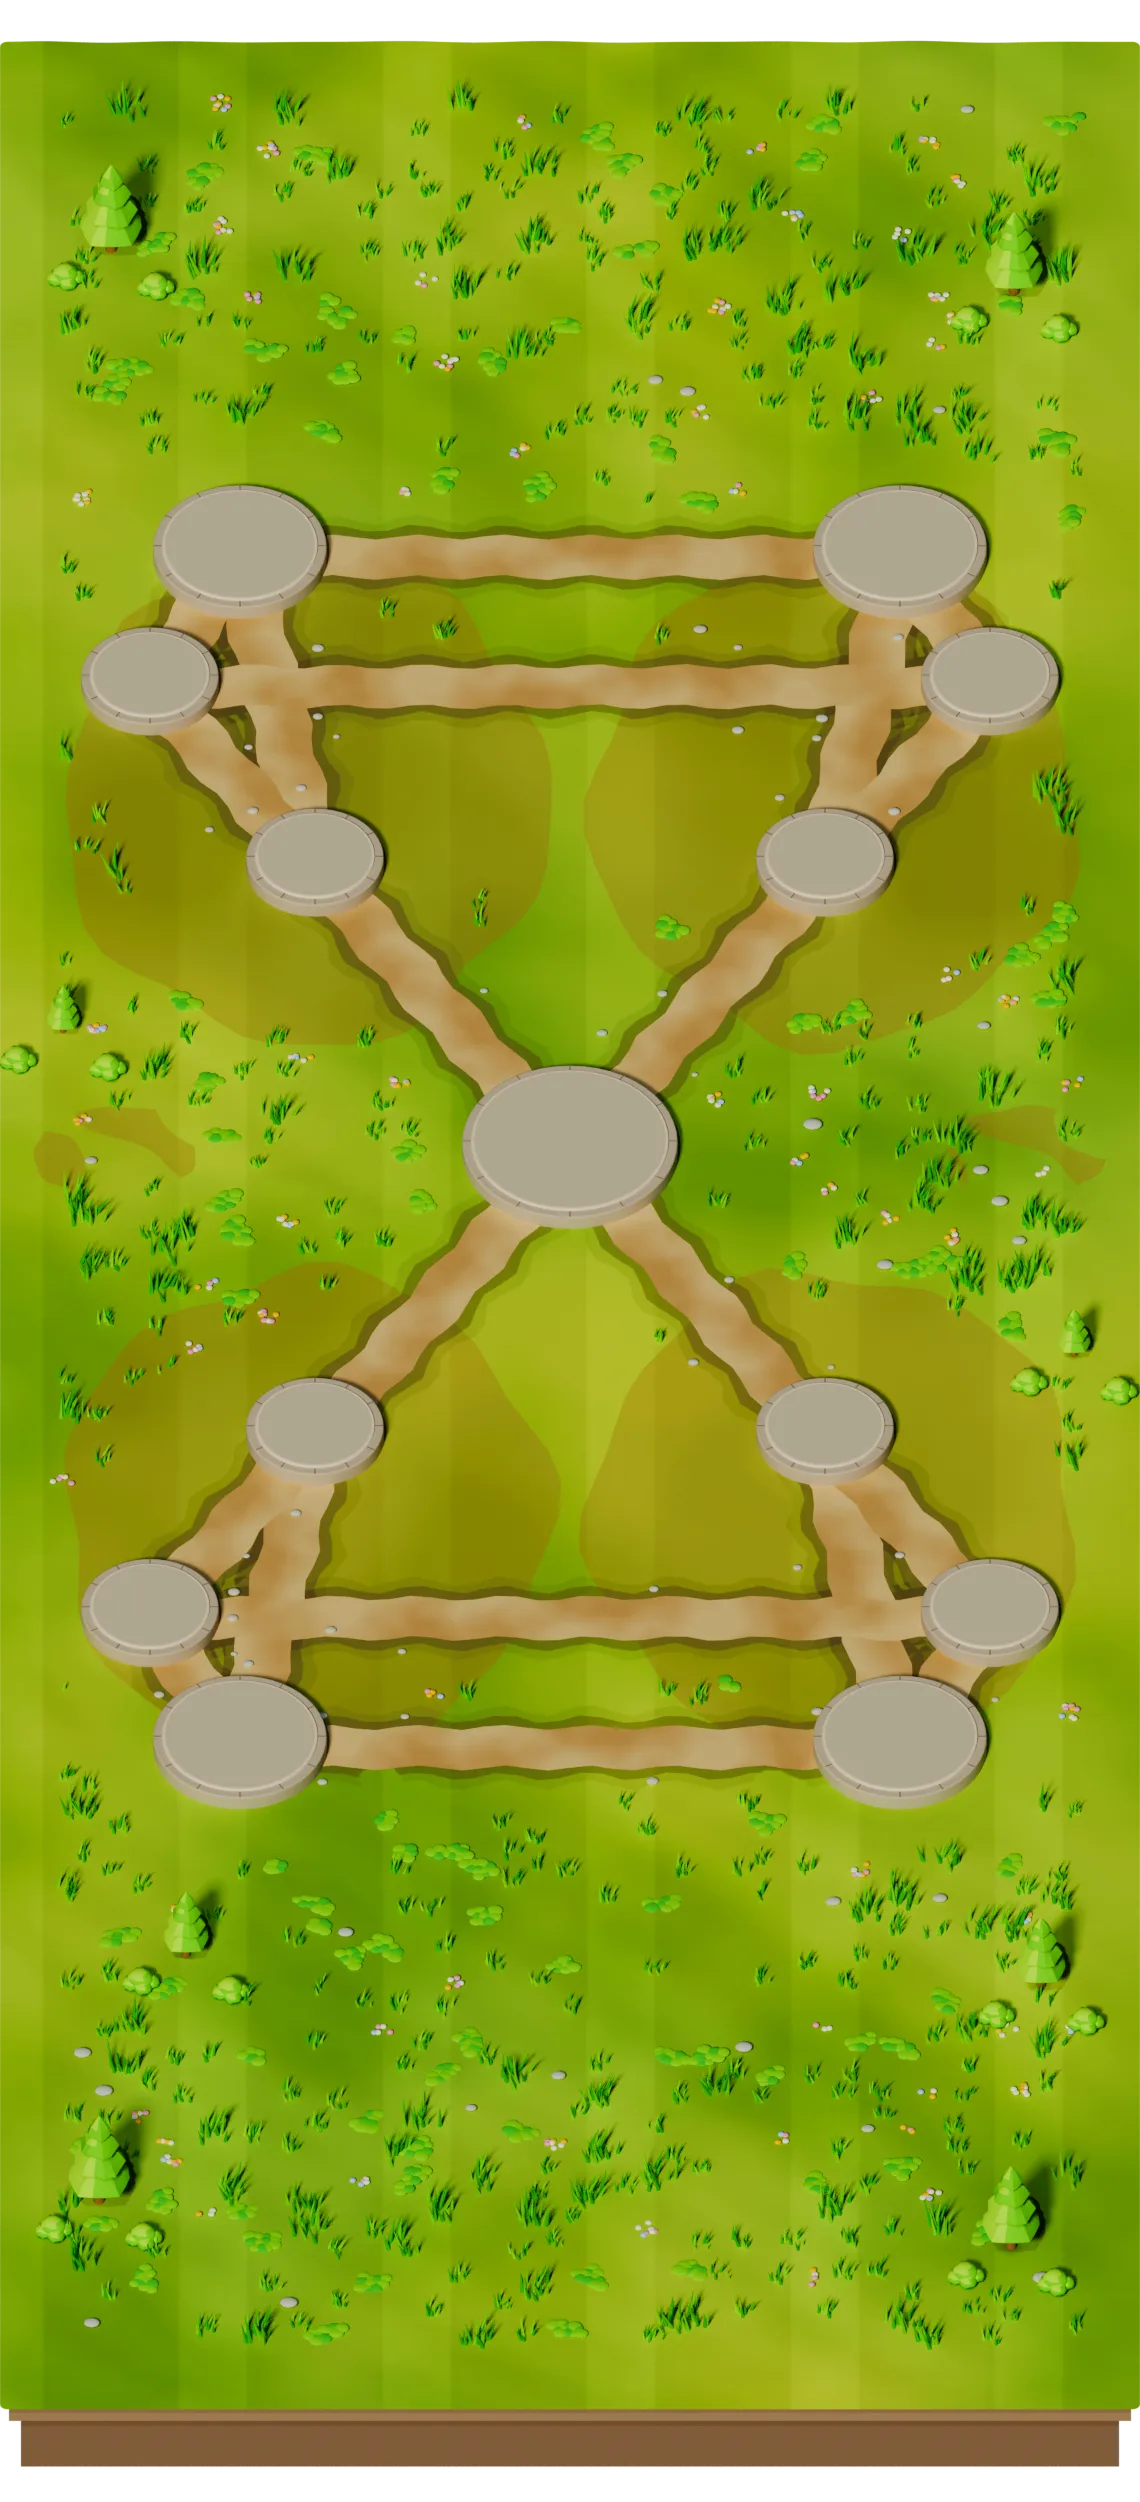
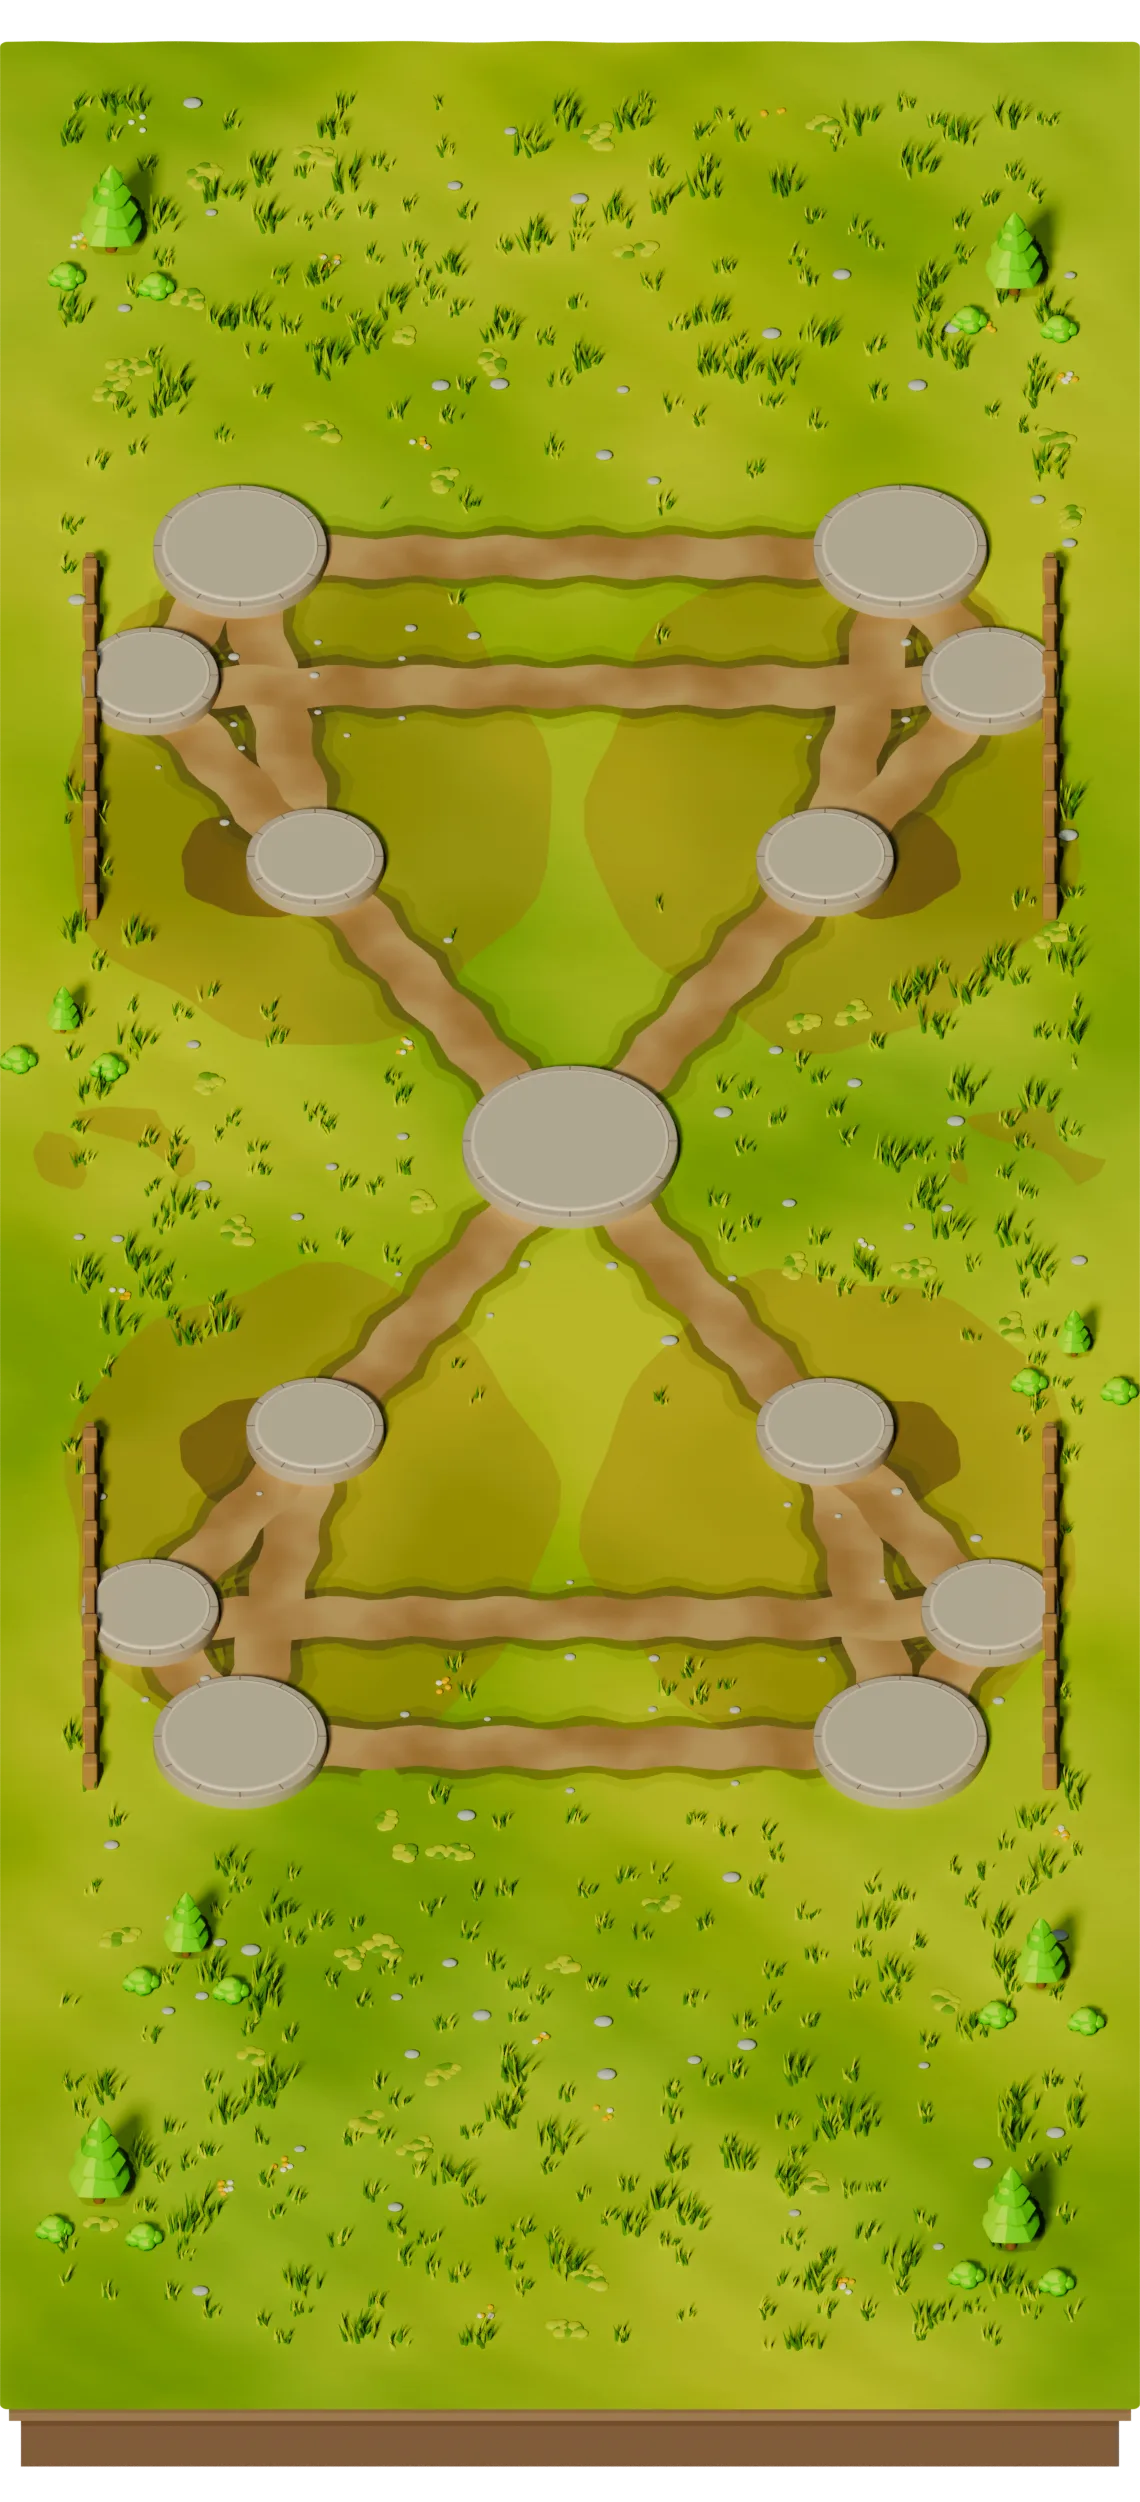
Give each battlefield its own baked biome (twin_passes highland, royal_ring palace garden, quad_citadel war camp)
Ground plates only: per-map grass/road/blade/flower palettes, scatter counts and
dressing in GROUND_BIOMES. Lighting rig, geometry, texture sizes and prop counts are
unchanged, so runtime cost is zero. SD plates re-encoded at q86 (quad q88) under the
128 KiB budget; cache keys bumped to cartoon-meadow-v1.9 / hd-v5.

diff --git a/apps/game/src/scenes/__tests__/GameSceneViewportRelayout.test.ts b/apps/game/src/scenes/__tests__/GameSceneViewportRelayout.test.ts
@@ -583,7 +583,7 @@ describe('GameScene viewport relayout (map uses the live mobile height)', () => 
       const units = image.mock.calls.filter(([, path]) => path.includes('assets/units/'));
       expect(units, 'all leaders, followers and facings need a fresh revision').toHaveLength(16);
       for (const [, path] of units) {
-        expect(new URL(path, 'https://game.invalid/').searchParams.get('v')).toBe('cartoon-meadow-v1.8');
+        expect(new URL(path, 'https://game.invalid/').searchParams.get('v')).toBe('cartoon-meadow-v1.9');
       }
       for (const [key, path] of expectedAssets) {
         const calls = image.mock.calls.filter(([loadedKey]) => loadedKey === key);
@@ -591,7 +591,7 @@ describe('GameScene viewport relayout (map uses the live mobile height)', () => 
         const url = new URL(calls[0][1], 'https://game.invalid/');
         expect(url.pathname).toBe(`/${path}`);
         expect(url.searchParams.get('v'), `${key} must bypass the old immutable cache`)
-          .toBe('cartoon-meadow-v1.8');
+          .toBe('cartoon-meadow-v1.9');
       }
     },
   );

diff --git a/apps/game/src/scenes/GameScene.ts b/apps/game/src/scenes/GameScene.ts
@@ -546,7 +546,7 @@ export class GameScene extends Phaser.Scene {
     const mapArtPath = (path: string): string =>
       hasHdArt(path) && assetTier === 'hd'
         ? `${resolveArtPath(path, assetTier)}?v=${HD_ART_VERSION}`
-        : `${path}?v=cartoon-meadow-v1.8`;
+        : `${path}?v=cartoon-meadow-v1.9`;
     // Track texture files that fail to load so the scene can substitute
     // procedural fallbacks instead of rendering broken sprites (the game must
     // never depend on the Blender source pipeline being present).

diff --git a/apps/game/src/scenes/MenuScene.ts b/apps/game/src/scenes/MenuScene.ts
@@ -208,7 +208,7 @@ export class MenuScene extends Phaser.Scene {
       this,
       [
         { key: 'hub_kingdom_citadel', path: 'assets/hub/kingdom_citadel.webp?v=hub-384-v1' },
-        { key: 'unit_leader_player_front', path: 'assets/units/unit_leader_player_front.png?v=cartoon-meadow-v1.8' },
+        { key: 'unit_leader_player_front', path: 'assets/units/unit_leader_player_front.png?v=cartoon-meadow-v1.9' },
       ],
       () => {
         crest.setVisible(false);

diff --git a/art/blender/crown_cross_kit.py b/art/blender/crown_cross_kit.py
@@ -1261,8 +1261,11 @@ def _ground_identity(battlefield_id, make_material, terrain_z):
                                 .022, roughness=.3, detail=2.0)
         _river_ribbon('organic brook bank', 49.0, .012, bank)
         _river_ribbon('brook shallows', 43.0, .025, shallows)
+        # A pale foam rim where the water meets the bank (baked: no runtime cost).
+        foam = _flat_alpha('rgx_foam', make_material, (.84, .96, .92), .55)
+        _river_ribbon('brook foam rim', 40.5, .033, foam)
         _river_ribbon('brook water', 37.0, .04, water)
-        stone = make_material('rgx_bridge', (.73, .65, .43), .8, use_gradient=False)
+        stone =make_material('rgx_bridge', (.73, .65, .43), .8, use_gradient=False)
         # Ground-level decking keeps marching sprites registered to the
         # canonical route; small stone parapets supply the diorama volume.
         for i in range(9):
@@ -1300,6 +1303,18 @@ def _ground_identity(battlefield_id, make_material, terrain_z):
             _organic_patch('trampled camp clearing', x, y, 81, 94, .018, camp, i + 16)
         for i, (x, y) in enumerate(((-152, 38), (152, 38))):
             _organic_patch('camp verge', x, y, 27, 18, .014, camp, i + 44)
+        # Churned earth inside each camp and a timber stake fence on the outer
+        # verge: the war-camp reads as lived-in, not as a second meadow.
+        churn = _flat_alpha('rgx_churn', make_material, (.30, .17, .06), .42)
+        for i, (x, y) in enumerate(((-104, 150), (104, 150), (-104, -78), (104, -78))):
+            _organic_patch('camp churned earth', x, y, 26, 21, .02, churn, i + 60)
+        timber = make_material('rgx_fence', (.46, .29, .12), .85, use_gradient=False)
+        for side in (-1, 1):
+            for run in ((130, 262), (-206, -74)):
+                lo, hi = run
+                for j in range(int((hi - lo) / 18) + 1):
+                    box('camp fence stake', (5.0, 5.0, 12.0), (side * 160.0, lo + j * 18.0, 6.0), timber, .8)
+                box('camp fence rail', (3.2, hi - lo, 3.0), (side * 160.0, (lo + hi) / 2.0, 8.5), timber, .5)
 
 
 def _ground_scatter(battlefield_id, bf, mats, terrain_z, roads):
@@ -1365,6 +1380,8 @@ def _ground_scatter(battlefield_id, bf, mats, terrain_z, roads):
             return x, y
         return None
 
+    biome = GROUND_BIOMES[battlefield_id]
+    flower_mix = biome.get('flowers', _DEFAULT_FLOWER_MIX)
     placed = []
 
     def reserve(x, y):
@@ -1400,7 +1417,13 @@ def _ground_scatter(battlefield_id, bf, mats, terrain_z, roads):
                 continue
             pick = rng.random()
             if GROUND_V2:
-                flower_mat = mats['flower_light'] if pick < .4 else mats['flower_dark'] if pick < .65 else mats['flower_pink'] if pick < .85 else mats['flower_blue']
+                flower_mat = mats[flower_mix[-1][0]]
+                cumulative = 0.0
+                for key, weight in flower_mix:
+                    cumulative += weight
+                    if pick < cumulative:
+                        flower_mat = mats[key]
+                        break
             else:
                 flower_mat = mats['flower_light'] if pick < .55 else mats['flower_dark']
             ico('meadow flower', 1.15 if GROUND_V2 else .9, (fx, fy, terrain_z(fx, fy) + .8),
@@ -1430,6 +1453,7 @@ def _ground_scatter(battlefield_id, bf, mats, terrain_z, roads):
     # concentrated in the fringe. All detail is baked into the one plate.
     counts = (('clover', 90), ('tuft', 290), ('patch', 100), ('flower', 64), ('pebble', 24)) if GROUND_V2 else (('clover', 64), ('tuft', 190), ('patch', 70), ('flower', 18), ('pebble', 16))
     for kind, count in counts:
+        count = biome.get('counts', {}).get(kind, count)
         made = misses = 0
         while made < count and misses < 500:
             misses += 1
@@ -1508,9 +1532,49 @@ def _ground_bottom_fade(field, make_material):
 # an identity without changing the authoritative palette/fallback data.
 GROUND_GRASS_PALETTES = {
     'crown_cross': ((.19, .48, .025), (.37, .72, .045)),
-    'twin_passes': ((.045, .38, .13), (.13, .62, .21)),
-    'royal_ring': ((.055, .43, .035), (.20, .69, .055)),
-    'quad_citadel': ((.26, .42, .035), (.48, .65, .075)),
+    'twin_passes': ((.05, .38, .17), (.14, .61, .30)),
+    'royal_ring': ((.09, .50, .03), (.30, .78, .06)),
+    'quad_citadel': ((.32, .44, .04), (.58, .66, .08)),
+}
+
+# Per-map biome dressing, baked into the ground plate only: the lighting rig,
+# road/socket geometry and runtime prop counts stay shared. Every key is
+# optional; crown_cross is the reference biome and keeps the shared defaults.
+#   grass:  noise_material overrides (stripes, stripe_width, sun_patches, grain)
+#   road:   (low, high) road noise colours
+#   blades: colours for the baked leaf/clover materials
+#   flowers: weighted flower materials (weights sum to 1)
+#   counts: scatter counts per kind (clover/tuft/patch/flower/pebble)
+_DEFAULT_FLOWER_MIX = (('flower_light', .4), ('flower_dark', .25), ('flower_pink', .2), ('flower_blue', .15))
+GROUND_BIOMES = {
+    'crown_cross': {},
+    # Highland brook: cool mossy greens, pale blue/white blooms, grey stone paths.
+    'twin_passes': {
+        'grass': {'sun_patches': .4, 'stripes': .0},
+        'road': ((.50, .40, .27), (.70, .60, .42)),
+        'blades': {'leaf': (.14, .56, .12), 'leaf_dark': (.03, .33, .11),
+                   'leaf_tall': (.09, .48, .15), 'clover': (.04, .44, .14)},
+        'flowers': (('flower_blue', .40), ('flower_light', .40), ('flower_pink', .10), ('flower_dark', .10)),
+        'counts': {'pebble': 56},
+    },
+    # Palace garden: clipped bright lawn, tight mower stripes, rose beds, pale gravel.
+    'royal_ring': {
+        'grass': {'stripes': .12, 'stripe_width': 28.0, 'sun_patches': .3, 'grain': .2},
+        'road': ((.72, .60, .37), (.88, .78, .53)),
+        'blades': {'leaf': (.38, .78, .05), 'leaf_dark': (.10, .52, .04),
+                   'leaf_tall': (.30, .70, .05), 'clover': (.17, .60, .06)},
+        'flowers': (('flower_pink', .35), ('flower_light', .35), ('flower_red', .20), ('flower_dark', .10)),
+        'counts': {'tuft': 210, 'flower': 104},
+    },
+    # War-camp grassland: sun-dried gold grass, churned dark earth, sparse flowers, stones.
+    'quad_citadel': {
+        'grass': {'stripes': .0, 'grain': .5},
+        'road': ((.42, .27, .11), (.60, .42, .20)),
+        'blades': {'leaf': (.66, .72, .08), 'leaf_dark': (.14, .30, .03),
+                   'leaf_tall': (.46, .60, .05), 'clover': (.26, .44, .05)},
+        'flowers': (('flower_dark', .55), ('flower_light', .45)),
+        'counts': {'clover': 40, 'tuft': 340, 'patch': 120, 'flower': 20, 'pebble': 64},
+    },
 }
 
 
@@ -1626,6 +1690,26 @@ def _diorama_plinths(bf, make_material):
                 rot=(0, 0, a))
 
 
+def _ground_royal_garden_dressing(bf, mats, make_material, terrain_z, roads):
+    """Rose beds ringing the clipped hedge (royal_ring).
+
+    Follows the same ellipse as the authored hedge (y spacing included) and
+    keeps clear of every road that crosses the court, so no lane is obscured.
+    """
+    rng = random.Random(7211)
+    bloom_mats = (mats['flower_red'], mats['flower_pink'], mats['flower_light'])
+    for i in range(54):
+        a = i * math.tau / 54.0
+        x = 90.0 * math.cos(a)
+        y = (38.0 + 90.0 * math.sin(a)) * GROUND_VERTICAL_SPACING
+        if any(_distance_to_segment(x, y, p[0], p[1], q[0], q[1]) < 15.0 for p, q in roads):
+            continue
+        bloom = bloom_mats[(i // 2) % 3]
+        for _ in range(4):
+            bx, by = x + (rng.random() - .5) * 6.0, y + (rng.random() - .5) * 6.0
+            ico('rose bed bloom', 1.9, (bx, by, terrain_z(bx, by) + 1.2), bloom, scale=(1.0, 1.0, .65))
+
+
 def _ground_edge_gardens(battlefield_id, bf, make_material, terrain_z, roads):
     """Static edge clusters fill the fringe with a composed miniature world.
 
@@ -1679,16 +1763,19 @@ def ground_plate(battlefield_id, make_material):
     diorama = _is_diorama_ground(battlefield_id)
 
     low, high = GROUND_GRASS_PALETTES[battlefield_id]
+    biome = GROUND_BIOMES[battlefield_id]
     if GROUND_V2:
-        grass = _noise_material('rgx_grass', make_material, low, high, .008, detail=2.0,
-                                stripes=.07, stripe_width=34.0, sun_patches=.45, grain=.35)
+        grass_params = {'stripes': .07, 'stripe_width': 34.0, 'sun_patches': .45, 'grain': .35}
+        grass_params.update(biome.get('grass', {}))
+        grass = _noise_material('rgx_grass', make_material, low, high, .008, detail=2.0, **grass_params)
     else:
         grass = _noise_material('rgx_grass', make_material, low, high, .008, detail=2.0)
     plate = _rounded_plate(grass, terrain_z)
 
     mats = {
         'road': _noise_material('rgx_road', make_material,
-                                (.56, .36, .13), (.77, .57, .27), .032, roughness=.9, detail=2),
+                                *biome.get('road', ((.56, .36, .13), (.77, .57, .27))),
+                                .032, roughness=.9, detail=2),
         'shoulder': _flat_alpha('rgx_shoulder', make_material,
                                 (.27, .22, .07) if GROUND_V2 else (.37, .36, .095), .36 if GROUND_V2 else .20),
         'paving': make_material('rgx_paving', (.76, .64, .38), .9, use_gradient=False),
@@ -1702,8 +1789,12 @@ def ground_plate(battlefield_id, make_material):
         'flower_dark': make_material('rgx_flowerd', (1.0, .62, .035), .8, use_gradient=False),
         'flower_pink': make_material('rgx_flowerp', (.96, .38, .55), .8, use_gradient=False),
         'flower_blue': make_material('rgx_flowerb', (.5, .62, 1.0), .8, use_gradient=False),
+        'flower_red': make_material('rgx_flowerr', (.90, .12, .16), .8, use_gradient=False),
         'paving_dark': make_material('rgx_pavingd', (.62, .50, .29), .9, use_gradient=False),
     }
+    for key, color in biome.get('blades', {}).items():
+        mats[key] = make_material(f'rgx_{key}_{battlefield_id}', color, .9 if key == 'clover' else .85,
+                                  use_gradient=False)
     if diorama:
         # Extruded slab skirt + raised stone plinths: the playfield itself
         # carries depth through the dimetric rig.
@@ -1731,6 +1822,8 @@ def ground_plate(battlefield_id, make_material):
     )
     _ground_scatter(battlefield_id, bf, mats, terrain_z, roads)
     _ground_edge_gardens(battlefield_id, bf, make_material, terrain_z, roads)
+    if battlefield_id == 'royal_ring':
+        _ground_royal_garden_dressing(bf, mats, make_material, terrain_z, roads)
     if not diorama:
         _ground_bottom_fade(field, make_material)
     return plate

diff --git a/ART_BIBLE.md b/ART_BIBLE.md
@@ -38,6 +38,14 @@ hit radii and replays are not affected. Tried and rejected: a camera colour filt
 Freestyle toon outline (it also outlines the contact-shadow ellipse) and a brighter `vivid` Blender light preset (not visible at
 game size; it stays available as `--look vivid`).
 
+**Map identity (v1.9):** each battlefield now has its own baked biome in `GROUND_BIOMES` (`art/blender/crown_cross_kit.py`):
+crown_cross stays the reference lime royal lawn; twin_passes is a cool highland brook (blue-green grass, grey stone paths,
+pale foam rim on the brook, blue/white blooms); royal_ring is a palace garden (clipped bright lawn with tight mower stripes,
+pale gravel paths, rose beds around the hedge); quad_citadel is a sun-dried war camp (golden grass, dark churned-earth roads
+and camps, timber stake fences, sparse flowers). The lighting rig, camera, road/socket geometry, texture sizes and prop counts
+are unchanged, so the runtime cost is zero (same plate sizes and decoded texture memory); SD plates are re-encoded at q86
+(quad q88) to stay under the 128 KiB plate budget. Art cache keys: `cartoon-meadow-v1.9`, `hub-meadow-v2`, HD `hd-v5`.
+
 **Meadow v2 (v1.8):** the four ground plates are re-rendered with `GROUND_V2` in `art/blender/crown_cross_kit.py`
 (`CC_GROUND_V2=0` renders the v1.7 meadow): large sun/shade patches (overlay of a cool dark and a warm bright tint), faint
 mower stripes, a fine grain bump, about 50% more tufts and carpet, clustered white/yellow/pink/blue flowers all over the

diff --git a/docs/art/README.md b/docs/art/README.md
@@ -1,7 +1,7 @@
 # Battlefield Art Pipeline (Blender → Runtime)
 
 Production caches fixed sprite filenames for 30 days. `GameScene.preload()`
-adds `?v=cartoon-meadow-v1.8` to ground, building, shared prop **and all marching-unit** requests.
+adds `?v=cartoon-meadow-v1.9` to ground, building, shared prop **and all marching-unit** requests.
 Bump that revision whenever this baked map kit changes, and update the preload
 regression test, so returning players receive matching terrain, buildings and troops.
 
@@ -102,6 +102,9 @@ reference an unloaded texture.
   alpha and ownership has one `2px` primary-colored ring with `0.06` fill; the extra
   dark base-plate stroke is hidden only on baked plinths. Capture updates preserve
   that treatment, while selection/drag feedback and fallback grounding remain.
+  Version 1.9 gives each map its own baked biome through `GROUND_BIOMES` (grass, road, blade and flower
+  palettes, scatter counts, plus per-map dressing: brook foam rim on twin_passes, rose beds on royal_ring, churned
+  camps and timber stake fences on quad_citadel). Lighting, geometry, texture sizes and prop counts stay fixed.
   Render/optimize: `tools/blender/render_battlefield.sh grounds`, then
   `tools/blender/optimize_outputs.sh art/blender/renders/grounds grounds`.
 
